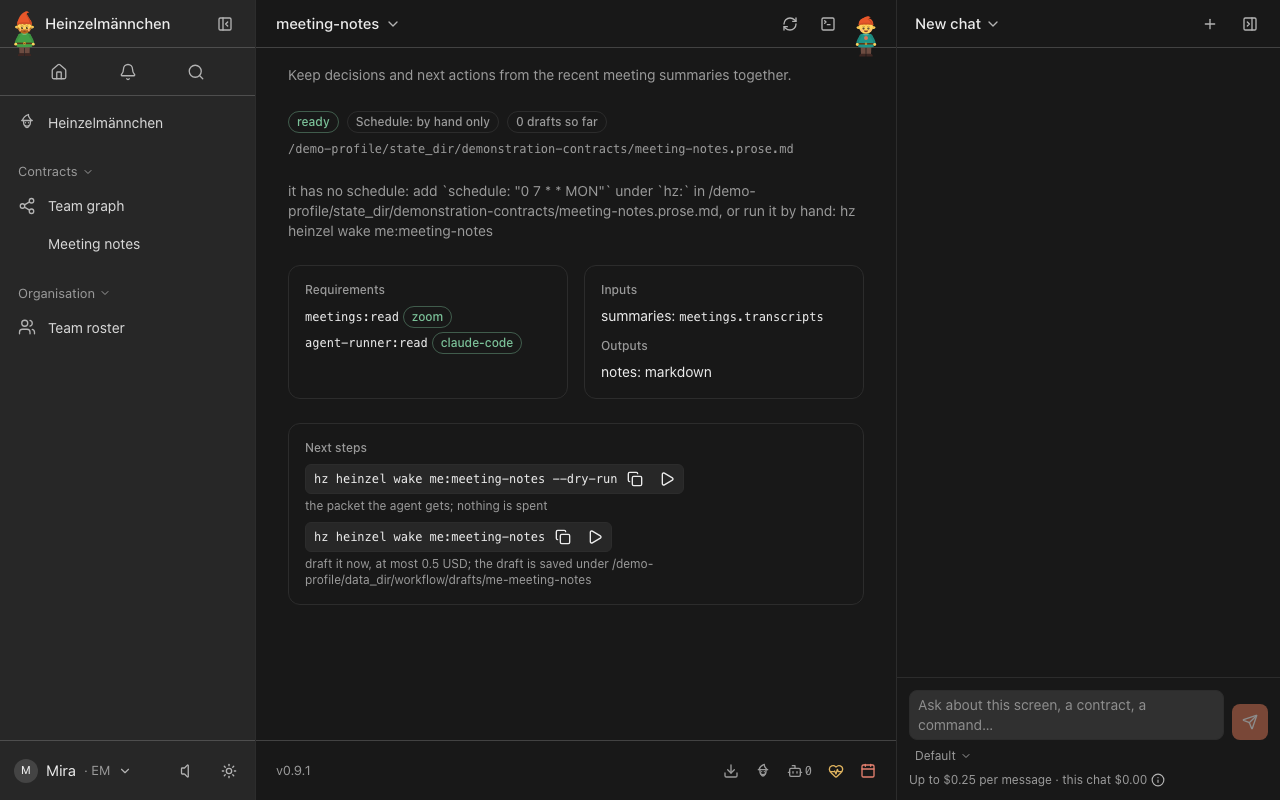
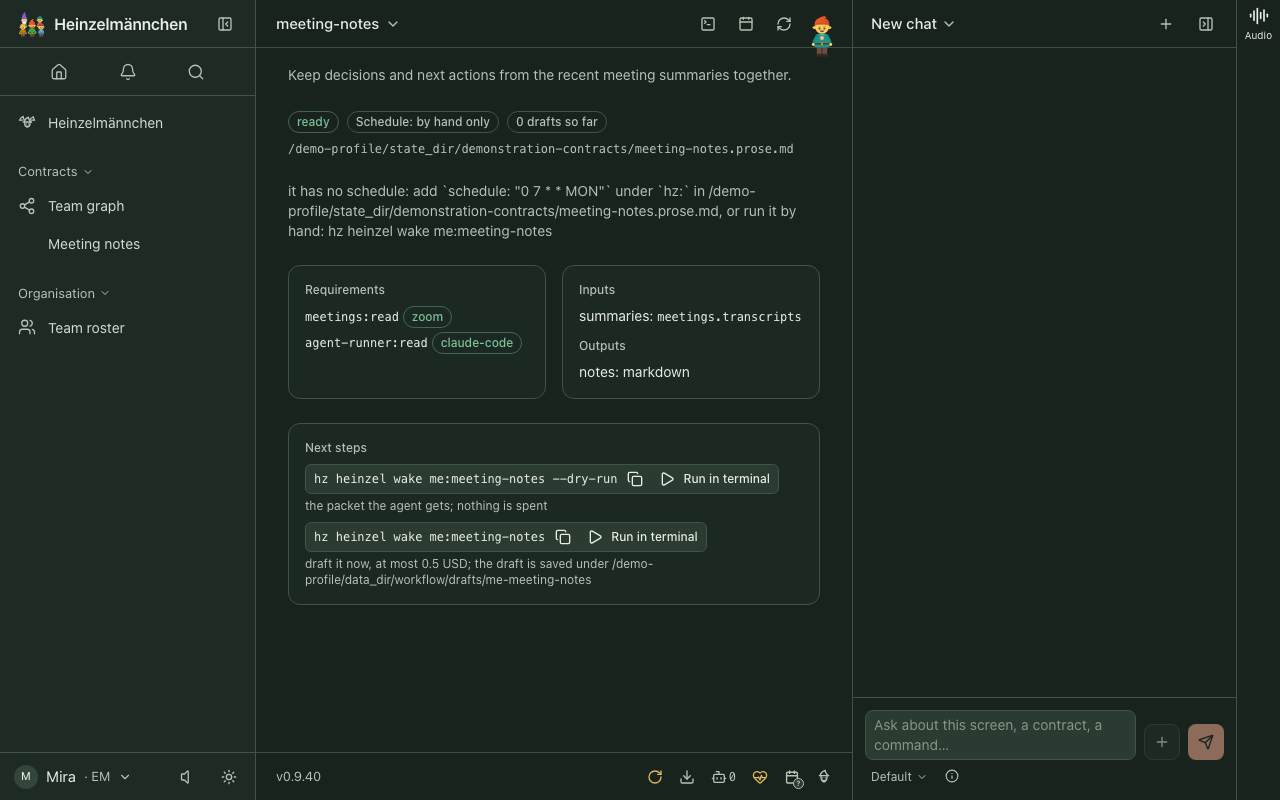
fix(zoom): relock against Core 0.9.40 and release 0.9.3 (#95)
Core 0.9.40 adds uv to its runtime dependencies, which the 0.9.1-era
lock lacks. Relock against the published 0.9.40 wheel, bump to 0.9.3
with a changelog line, and recapture the gallery (privacy review
approved all five assets).

diff --git a/plugins/heinzel-zoom/docs/assets/screenshots/index.html b/plugins/heinzel-zoom/docs/assets/screenshots/index.html
@@ -1,1 +1,1 @@
-<!doctype html><html lang="en"><meta charset="utf-8"><meta name="viewport" content="width=device-width"><title>heinzel-zoom screenshots</title><style>body{font:16px/1.6 system-ui;margin:2rem;background:#faf8f3;color:#263b32}main{display:grid;grid-template-columns:repeat(auto-fit,minmax(min(100%,420px),1fr));gap:1rem}figure{margin:0;padding:1rem;background:white;border:1px solid #d8ddd3;border-radius:12px}img{width:100%;height:auto}figcaption{margin-top:.75rem}a:focus-visible{outline:3px solid #a64028}</style><h1>heinzel-zoom</h1><p>Isolated demonstration profile · Core 0.9.1 · Review these captures before committing. Click an image to inspect it at full size.</p><main><figure><a href="workflow-list.png"><img src="workflow-list.png" alt="Demo data: the fictional Meeting notes workflow declares a need for meeting summaries."></a><figcaption>UI · Demo data: the fictional Meeting notes workflow declares a need for meeting summaries.</figcaption></figure><figure><a href="workflow-context.png"><img src="workflow-context.png" alt="Demo data: the fictional Meeting notes contract declares summary input and Markdown output; no report has been generated."></a><figcaption>UI · Demo data: the fictional Meeting notes contract declares summary input and Markdown output; no report has been generated.</figcaption></figure><figure><a href="summary-cli.png"><img src="summary-cli.png" alt="Demo data: the fixture requester shows Weekly sync&#x27;s parsed recap, next steps and source link."></a><figcaption>CLI · Demo data: the fixture requester shows Weekly sync&#x27;s parsed recap, next steps and source link.</figcaption></figure><figure><a href="launch-cli.png"><img src="launch-cli.png" alt="Demo data: the fixture requester shows Launch review&#x27;s rollout decision and named next steps."></a><figcaption>CLI · Demo data: the fixture requester shows Launch review&#x27;s rollout decision and named next steps.</figcaption></figure><figure><a href="meeting-list-json.png"><img src="meeting-list-json.png" alt="Demo data: fictional October meetings as JSON, with meeting metadata rather than verbatim transcripts."></a><figcaption>CLI · Demo data: fictional October meetings as JSON, with meeting metadata rather than verbatim transcripts.</figcaption></figure></main></html>
+<!doctype html><html lang="en"><meta charset="utf-8"><meta name="viewport" content="width=device-width"><title>heinzel-zoom screenshots</title><style>body{font:16px/1.6 system-ui;margin:2rem;background:#faf8f3;color:#263b32}main{display:grid;grid-template-columns:repeat(auto-fit,minmax(min(100%,420px),1fr));gap:1rem}figure{margin:0;padding:1rem;background:white;border:1px solid #d8ddd3;border-radius:12px}img{width:100%;height:auto}figcaption{margin-top:.75rem}a:focus-visible{outline:3px solid #a64028}</style><h1>heinzel-zoom</h1><p>Isolated demonstration profile · Core 0.9.40 · Review these captures before committing. Click an image to inspect it at full size.</p><main><figure><a href="workflow-list.png"><img src="workflow-list.png" alt="Demo data: the fictional Meeting notes workflow declares a need for meeting summaries."></a><figcaption>UI · Demo data: the fictional Meeting notes workflow declares a need for meeting summaries.</figcaption></figure><figure><a href="workflow-context.png"><img src="workflow-context.png" alt="Demo data: the fictional Meeting notes contract declares summary input and Markdown output; no report has been generated."></a><figcaption>UI · Demo data: the fictional Meeting notes contract declares summary input and Markdown output; no report has been generated.</figcaption></figure><figure><a href="summary-cli.png"><img src="summary-cli.png" alt="Demo data: the fixture requester shows Weekly sync&#x27;s parsed recap, next steps and source link."></a><figcaption>CLI · Demo data: the fixture requester shows Weekly sync&#x27;s parsed recap, next steps and source link.</figcaption></figure><figure><a href="launch-cli.png"><img src="launch-cli.png" alt="Demo data: the fixture requester shows Launch review&#x27;s rollout decision and named next steps."></a><figcaption>CLI · Demo data: the fixture requester shows Launch review&#x27;s rollout decision and named next steps.</figcaption></figure><figure><a href="meeting-list-json.png"><img src="meeting-list-json.png" alt="Demo data: fictional October meetings as JSON, with meeting metadata rather than verbatim transcripts."></a><figcaption>CLI · Demo data: fictional October meetings as JSON, with meeting metadata rather than verbatim transcripts.</figcaption></figure></main></html>

diff --git a/plugins/heinzel-zoom/docs/SCREENSHOT_STORY.md b/plugins/heinzel-zoom/docs/SCREENSHOT_STORY.md
@@ -1,42 +1,42 @@
 ## Audience
 
-A Heinzelmännchen user deciding whether Zoom meeting decisions can feed their workflows without granting this plugin Zoom API credentials.
+People deciding whether Zoom meeting summaries can feed their Heinzelmännchen workflows without granting a Zoom API credential.
 
 ## Outcome
 
-Show a fictional workflow declaring its need for meeting summaries, then show the actual adapter extracting useful decisions from two fictional summary emails. The summaries are AI-generated meeting summaries, not verbatim transcripts. The plugin reads them through a bound mail adapter; enabling email summaries in Zoom and binding mail are prerequisites (`README.md`, `src/heinzel_zoom/__init__.py`).
+Show how a workflow can request meeting context, then show actual parsed decisions and next steps from two fictional emails. The result is a summary, not a verbatim transcript. Zoom must email the summaries, and a mail adapter must be bound; the plugin reads through that adapter (`README.md`, `src/heinzel_zoom/_adapter.py: Zoom`).
 
 ## Scenes
 
-1. **Workflow overview — light.** The Core contracts view shows the fictional Meeting notes workflow in context. Its declaration requires `meetings:read` and defines a summary input and Markdown output. This is a declared workflow, not a generated report (`docs/screenshot_fixture.py`, `CONTRACT`).
-2. **Workflow detail — dark.** Open the same fictional workflow to see its input, intended output and completion criteria. This is a meaningful detail state of the same Core feature; do not imply that it has executed. The existing plan names `/contracts/meeting-notes`; confirm that the route and heading actually render during capture (`docs/screenshots.toml`, `docs/screenshot_fixture.py`).
-3. **Weekly sync — CLI.** The fixture-only `showcase one sync` requester displays the parsed recap, next steps and source link. It calls the installed Zoom adapter, not a production Zoom CLI command (`docs/screenshot_fixture.py`, `one` and `summary_body`).
-4. **Launch review — CLI.** Run the same requester with `launch` to show the second meeting's distinct rollout decision and owners (`docs/screenshot_fixture.py`, `CONTENTS` and `one`).
-5. **Meeting list — CLI.** Show the fictional October results as JSON: meeting metadata, rather than verbatim transcripts. The fixture's `ended` operation uses the adapter's `meetings.ended` (`docs/screenshot_fixture.py`, `ended`; `src/heinzel_zoom/_adapter.py`).
+1. **Workflow list, light:** the fictional Meeting notes contract appears among Core workflows. It demonstrates a declared need for meeting summaries, not a completed report.
+2. **Workflow context, dark:** the same contract's detail shows its summary input and Markdown output. This is a meaningfully different state of the workflow, with no generated report implied.
+3. **Weekly sync:** the fixture requester's native CLI result shows the parsed recap, named next steps and source link.
+4. **Launch review:** the same operation with a different meeting ID shows a different rollout decision and next steps.
+5. **Meeting list JSON:** the fixture requester's windowed result shows fictional meeting metadata, distinguishing the list from the summary sections.
+
+The two UI scenes use applied light and dark appearances. Capture them as genuine Core views, not recreated HTML or terminal output. The existing detail route is retained from `docs/screenshots.toml`; its availability and rendered content must be confirmed during capture because Core's routing implementation is not among the provided sources.
 
 ## Fictional fixtures
 
-Use the existing `docs/screenshot_fixture.py` only during explicit capture. It creates an isolated demonstration contract, binds its fictional `inbox` mail adapter and the installed `zoom` meetings adapter, and supplies Weekly sync, Launch review and an unrelated newsletter. The names, decisions, meeting ID and example addresses are demonstration data. The requester and contract are documentation-only additions, not shipped Zoom features. No report is generated by declaring the contract.
+`docs/screenshot_fixture.py` declares the local `inbox` mail adapter, `showcase` requester and Meeting notes contract. Its two fictional summaries name Mira, Jonas and Priya Example; a newsletter exercises filtering. `showcase.one` calls the real meetings adapter for `sync` or `launch`, while `showcase.ended` lists the fixed October window. The contract is a declaration only. Bootstrap runs only during explicit capture, in an isolated profile with no connected accounts.
 
 ## Source-bound UI surface inventory
 
-- **Plugin entrypoint and adapter:** `pyproject.toml` declares `heinzel.modules.zoom = "heinzel_zoom"`; `src/heinzel_zoom/__init__.py` registers settings, service and the read-only `meetings` provider. `src/heinzel_zoom/_module.py` requires `mail:read`. The adapter methods `ended`, `transcripts` and `transcript` are capability methods, not declared plugin pages (`src/heinzel_zoom/_adapter.py`).
-- **Operations and Core contributions:** `src/heinzel_zoom/__init__.py` declares the `info` operation, system-info contribution, offline health checks and an explicitly invoked live health check. These may appear in Core-rendered operation, information or health surfaces; the supplied sources do not establish their actual web routes or controls. No channel, approval, setup, footer, navigation, Page or View declaration is present in the supplied plugin entrypoint. Absence of a plugin Page or View does not establish absence of a Core-rendered feature UI.
-- **Core feature UI:** the existing plan identifies `/contracts` and `/contracts/meeting-notes` for the fixture's contract (`docs/screenshots.toml`; `docs/screenshot_fixture.py`, `CONTRACT`). These are two useful states of a Core workflow feature, not Zoom-owned screens. The supplied Core implementation is absent, so the detail route, graph presentation and actual rendered fields remain capture-time evidence to verify; do not claim the overview is a graph unless observed.
-- **Terminal output:** `showcase one` and `showcase ended` are fixture-only operations with Rich renderers (`docs/screenshot_fixture.py`). Their CLI output is appropriate as CLI evidence. The existing plan labels three in-app terminal captures as `surface = "ui"`; those are terminal results, not feature UI, so this plan retains their useful cases as CLI scenes instead. The supplied sources do not prove all meeting behavior is terminal-only.
-- **External provider UI:** Zoom's settings portal is an external prerequisite described in `README.md`, not a plugin or Core screen. Do not stage or invent it. `hz system connector test zoom` lists recent matching summary emails through the mail adapter when invoked; it is not a Zoom API connection test (`src/heinzel_zoom/_service.py`, `live`).
+- `pyproject.toml` declares one `heinzel.modules` entry point, `zoom = "heinzel_zoom"`. `src/heinzel_zoom/__init__.py` registers settings, service, the read-only `meetings` provider, the `info` operation, system info, offline health and live connector health. `src/heinzel_zoom/_module.py` declares its `mail:read` requirement. No plugin Page, View, navigation, channel, approval, setup or footer contribution is declared in these provided files; that absence alone does not rule out Core-rendered UI.
+- Core workflow list and contract detail are feature UI using the fixture's actual contract declaration (`docs/screenshot_fixture.py: CONTRACT`; `docs/screenshots.toml: workflow-list, workflow-context`). The provided source does not establish that the detail route currently resolves, so capture must verify it. These views demonstrate workflow configuration, not a parsed meeting or generated report.
+- The `info` operation and `system_info` contribution expose plugin, version, modules, source and query (`src/heinzel_zoom/__init__.py: info, system_info`; `src/heinzel_zoom/_service.py: ZoomService.about`; `src/heinzel_zoom/_models.py: ZoomAbout`). Health contributes summary source, mail and meetings binding checks; live health lists recent matching messages on demand (`__init__.py: health, live`; `_service.py: checks, live`). Core may render these contributions in generic UI; the provided files do not establish its routes or presentation. Do not claim they are terminal-only or invent a screen.
+- The fixture's `showcase.one`, `ended` and `said` are operations, with custom Rich renderers for the first two (`docs/screenshot_fixture.py`). Their CLI output is useful and genuine, but possible Core rendering of operations is unresolved. The plan does not present their terminal output as feature UI.
+- Zoom's settings portal is external provider UI (`README.md: Set up`; `src/heinzel_zoom/_models.py: SUMMARY_SETTING`), not a plugin or Core screen. The plugin's query setting is a Core-facing settings contribution (`__init__.py: module.settings`; `_models.py: ZoomSettings`); no route is established here. The provided source declares no plugin-owned navigation route.
+- The README calls the returned object a transcript while explaining that it contains summary sections, not a verbatim record; captions must preserve that distinction. The fixture contract's goal describes a review, but its own text explicitly says no report has been generated.
 
 ## Privacy pitfalls
 
-Capture only the isolated fictional mailbox and contract. Summary text can contain sensitive decisions and names even though the parser removes email addresses, excludes footer content and strips query strings and fragments from Zoom links (`src/heinzel_zoom/_summary.py`, `src/heinzel_zoom/_text.py`). Inspect links, paths, hostnames, account details, terminal history and surrounding Core chrome as well as the main content.
-
-Normal presentation fictionalization is explicitly limited to replacing verified owning-interpreter paths with `/demo-profile/.venv`, and replacing only the verified whole hostname detail in the genuine Doctor row with `demo-host`. These mappings change no SDK health status or remaining detail and establish no privacy acceptance. Unknown identities still fail; an independent reviewer must inspect every image and transcript.
+Use only the isolated fictional mailbox and contract. Parser protections include address replacement, removal of addresses from names, and stripping query strings and fragments from Zoom links (`src/heinzel_zoom/_summary.py`, `src/heinzel_zoom/_text.py`); they do not establish that screenshots or transcripts are private. Normal presentation fictionalization maps verified owning-interpreter paths to `/demo-profile/.venv`, and only the verified whole hostname detail in the genuine Doctor row to `demo-host`. These mappings change no SDK health status or remaining detail and establish no privacy acceptance. Unknown identities still fail. Independent review must inspect every image and transcript for identities, paths, tokens and other sensitive content before publication.
 
 ## Acceptance criteria
 
-- Capture the two genuine Core workflow states with the specified applied light and dark appearances, plus the three useful CLI results. Verify that each route and visible state actually exists; stop and report unresolved evidence instead of forging HTML or substituting terminal output for feature UI.
-- Show both `sync` and `launch` parameter cases, with their distinct fixture decisions, and the October JSON list. Do not capture duplicate images or rely on caption-only differences.
-- Every caption identifies demo data. The contract images make clear that a workflow is declared, not executed; the CLI images identify the documentation-only requester. Do not present summaries as verbatim transcripts.
-- Confirm the unrelated newsletter is excluded and the captured meeting data comes from the fixture through the real installed adapter. Treat these as capture-time checks, not results already observed.
-- Independently review every image and transcript for privacy, including the exact permitted presentation mappings. Unknown identities fail review.
-- The TOML below is structurally checked against the supplied scene rules by inspection; it has not been parsed or capture-tested because code execution was prohibited.
+- Capture both genuine workflow states with their stated applied appearances, and verify the detail route and meaningful content. Stop and resolve any missing route or surface instead of fabricating it.
+- Show the two different `showcase.one` parameter cases and the windowed list as genuine completed CLI results. Confirm fictional decisions, next steps and metadata match the fixture; do not describe them as verbatim transcripts.
+- Reject duplicate captures, caption-only changes, terminal output presented as feature UI, and forged HTML. Every caption identifies demo data; no scene implies a report was generated or a real mailbox was consulted.
+- Independently inspect every image and transcript, apply only the verified presentation mappings above, and fail on unknown identities. Verify health status and all remaining Doctor detail are unchanged.
+- The TOML below preserves the existing five-scene plan. Its syntax and declared fields have been checked by inspection only; capture, route resolution, appearance application and privacy acceptance remain unverified.

diff --git a/plugins/heinzel-zoom/docs/assets/screenshots/source-story.md b/plugins/heinzel-zoom/docs/assets/screenshots/source-story.md
@@ -1,42 +1,42 @@
 ## Audience
 
-A Heinzelmännchen user deciding whether Zoom meeting decisions can feed their workflows without granting this plugin Zoom API credentials.
+People deciding whether Zoom meeting summaries can feed their Heinzelmännchen workflows without granting a Zoom API credential.
 
 ## Outcome
 
-Show a fictional workflow declaring its need for meeting summaries, then show the actual adapter extracting useful decisions from two fictional summary emails. The summaries are AI-generated meeting summaries, not verbatim transcripts. The plugin reads them through a bound mail adapter; enabling email summaries in Zoom and binding mail are prerequisites (`README.md`, `src/heinzel_zoom/__init__.py`).
+Show how a workflow can request meeting context, then show actual parsed decisions and next steps from two fictional emails. The result is a summary, not a verbatim transcript. Zoom must email the summaries, and a mail adapter must be bound; the plugin reads through that adapter (`README.md`, `src/heinzel_zoom/_adapter.py: Zoom`).
 
 ## Scenes
 
-1. **Workflow overview — light.** The Core contracts view shows the fictional Meeting notes workflow in context. Its declaration requires `meetings:read` and defines a summary input and Markdown output. This is a declared workflow, not a generated report (`docs/screenshot_fixture.py`, `CONTRACT`).
-2. **Workflow detail — dark.** Open the same fictional workflow to see its input, intended output and completion criteria. This is a meaningful detail state of the same Core feature; do not imply that it has executed. The existing plan names `/contracts/meeting-notes`; confirm that the route and heading actually render during capture (`docs/screenshots.toml`, `docs/screenshot_fixture.py`).
-3. **Weekly sync — CLI.** The fixture-only `showcase one sync` requester displays the parsed recap, next steps and source link. It calls the installed Zoom adapter, not a production Zoom CLI command (`docs/screenshot_fixture.py`, `one` and `summary_body`).
-4. **Launch review — CLI.** Run the same requester with `launch` to show the second meeting's distinct rollout decision and owners (`docs/screenshot_fixture.py`, `CONTENTS` and `one`).
-5. **Meeting list — CLI.** Show the fictional October results as JSON: meeting metadata, rather than verbatim transcripts. The fixture's `ended` operation uses the adapter's `meetings.ended` (`docs/screenshot_fixture.py`, `ended`; `src/heinzel_zoom/_adapter.py`).
+1. **Workflow list, light:** the fictional Meeting notes contract appears among Core workflows. It demonstrates a declared need for meeting summaries, not a completed report.
+2. **Workflow context, dark:** the same contract's detail shows its summary input and Markdown output. This is a meaningfully different state of the workflow, with no generated report implied.
+3. **Weekly sync:** the fixture requester's native CLI result shows the parsed recap, named next steps and source link.
+4. **Launch review:** the same operation with a different meeting ID shows a different rollout decision and next steps.
+5. **Meeting list JSON:** the fixture requester's windowed result shows fictional meeting metadata, distinguishing the list from the summary sections.
+
+The two UI scenes use applied light and dark appearances. Capture them as genuine Core views, not recreated HTML or terminal output. The existing detail route is retained from `docs/screenshots.toml`; its availability and rendered content must be confirmed during capture because Core's routing implementation is not among the provided sources.
 
 ## Fictional fixtures
 
-Use the existing `docs/screenshot_fixture.py` only during explicit capture. It creates an isolated demonstration contract, binds its fictional `inbox` mail adapter and the installed `zoom` meetings adapter, and supplies Weekly sync, Launch review and an unrelated newsletter. The names, decisions, meeting ID and example addresses are demonstration data. The requester and contract are documentation-only additions, not shipped Zoom features. No report is generated by declaring the contract.
+`docs/screenshot_fixture.py` declares the local `inbox` mail adapter, `showcase` requester and Meeting notes contract. Its two fictional summaries name Mira, Jonas and Priya Example; a newsletter exercises filtering. `showcase.one` calls the real meetings adapter for `sync` or `launch`, while `showcase.ended` lists the fixed October window. The contract is a declaration only. Bootstrap runs only during explicit capture, in an isolated profile with no connected accounts.
 
 ## Source-bound UI surface inventory
 
-- **Plugin entrypoint and adapter:** `pyproject.toml` declares `heinzel.modules.zoom = "heinzel_zoom"`; `src/heinzel_zoom/__init__.py` registers settings, service and the read-only `meetings` provider. `src/heinzel_zoom/_module.py` requires `mail:read`. The adapter methods `ended`, `transcripts` and `transcript` are capability methods, not declared plugin pages (`src/heinzel_zoom/_adapter.py`).
-- **Operations and Core contributions:** `src/heinzel_zoom/__init__.py` declares the `info` operation, system-info contribution, offline health checks and an explicitly invoked live health check. These may appear in Core-rendered operation, information or health surfaces; the supplied sources do not establish their actual web routes or controls. No channel, approval, setup, footer, navigation, Page or View declaration is present in the supplied plugin entrypoint. Absence of a plugin Page or View does not establish absence of a Core-rendered feature UI.
-- **Core feature UI:** the existing plan identifies `/contracts` and `/contracts/meeting-notes` for the fixture's contract (`docs/screenshots.toml`; `docs/screenshot_fixture.py`, `CONTRACT`). These are two useful states of a Core workflow feature, not Zoom-owned screens. The supplied Core implementation is absent, so the detail route, graph presentation and actual rendered fields remain capture-time evidence to verify; do not claim the overview is a graph unless observed.
-- **Terminal output:** `showcase one` and `showcase ended` are fixture-only operations with Rich renderers (`docs/screenshot_fixture.py`). Their CLI output is appropriate as CLI evidence. The existing plan labels three in-app terminal captures as `surface = "ui"`; those are terminal results, not feature UI, so this plan retains their useful cases as CLI scenes instead. The supplied sources do not prove all meeting behavior is terminal-only.
-- **External provider UI:** Zoom's settings portal is an external prerequisite described in `README.md`, not a plugin or Core screen. Do not stage or invent it. `hz system connector test zoom` lists recent matching summary emails through the mail adapter when invoked; it is not a Zoom API connection test (`src/heinzel_zoom/_service.py`, `live`).
+- `pyproject.toml` declares one `heinzel.modules` entry point, `zoom = "heinzel_zoom"`. `src/heinzel_zoom/__init__.py` registers settings, service, the read-only `meetings` provider, the `info` operation, system info, offline health and live connector health. `src/heinzel_zoom/_module.py` declares its `mail:read` requirement. No plugin Page, View, navigation, channel, approval, setup or footer contribution is declared in these provided files; that absence alone does not rule out Core-rendered UI.
+- Core workflow list and contract detail are feature UI using the fixture's actual contract declaration (`docs/screenshot_fixture.py: CONTRACT`; `docs/screenshots.toml: workflow-list, workflow-context`). The provided source does not establish that the detail route currently resolves, so capture must verify it. These views demonstrate workflow configuration, not a parsed meeting or generated report.
+- The `info` operation and `system_info` contribution expose plugin, version, modules, source and query (`src/heinzel_zoom/__init__.py: info, system_info`; `src/heinzel_zoom/_service.py: ZoomService.about`; `src/heinzel_zoom/_models.py: ZoomAbout`). Health contributes summary source, mail and meetings binding checks; live health lists recent matching messages on demand (`__init__.py: health, live`; `_service.py: checks, live`). Core may render these contributions in generic UI; the provided files do not establish its routes or presentation. Do not claim they are terminal-only or invent a screen.
+- The fixture's `showcase.one`, `ended` and `said` are operations, with custom Rich renderers for the first two (`docs/screenshot_fixture.py`). Their CLI output is useful and genuine, but possible Core rendering of operations is unresolved. The plan does not present their terminal output as feature UI.
+- Zoom's settings portal is external provider UI (`README.md: Set up`; `src/heinzel_zoom/_models.py: SUMMARY_SETTING`), not a plugin or Core screen. The plugin's query setting is a Core-facing settings contribution (`__init__.py: module.settings`; `_models.py: ZoomSettings`); no route is established here. The provided source declares no plugin-owned navigation route.
+- The README calls the returned object a transcript while explaining that it contains summary sections, not a verbatim record; captions must preserve that distinction. The fixture contract's goal describes a review, but its own text explicitly says no report has been generated.
 
 ## Privacy pitfalls
 
-Capture only the isolated fictional mailbox and contract. Summary text can contain sensitive decisions and names even though the parser removes email addresses, excludes footer content and strips query strings and fragments from Zoom links (`src/heinzel_zoom/_summary.py`, `src/heinzel_zoom/_text.py`). Inspect links, paths, hostnames, account details, terminal history and surrounding Core chrome as well as the main content.
-
-Normal presentation fictionalization is explicitly limited to replacing verified owning-interpreter paths with `/demo-profile/.venv`, and replacing only the verified whole hostname detail in the genuine Doctor row with `demo-host`. These mappings change no SDK health status or remaining detail and establish no privacy acceptance. Unknown identities still fail; an independent reviewer must inspect every image and transcript.
+Use only the isolated fictional mailbox and contract. Parser protections include address replacement, removal of addresses from names, and stripping query strings and fragments from Zoom links (`src/heinzel_zoom/_summary.py`, `src/heinzel_zoom/_text.py`); they do not establish that screenshots or transcripts are private. Normal presentation fictionalization maps verified owning-interpreter paths to `/demo-profile/.venv`, and only the verified whole hostname detail in the genuine Doctor row to `demo-host`. These mappings change no SDK health status or remaining detail and establish no privacy acceptance. Unknown identities still fail. Independent review must inspect every image and transcript for identities, paths, tokens and other sensitive content before publication.
 
 ## Acceptance criteria
 
-- Capture the two genuine Core workflow states with the specified applied light and dark appearances, plus the three useful CLI results. Verify that each route and visible state actually exists; stop and report unresolved evidence instead of forging HTML or substituting terminal output for feature UI.
-- Show both `sync` and `launch` parameter cases, with their distinct fixture decisions, and the October JSON list. Do not capture duplicate images or rely on caption-only differences.
-- Every caption identifies demo data. The contract images make clear that a workflow is declared, not executed; the CLI images identify the documentation-only requester. Do not present summaries as verbatim transcripts.
-- Confirm the unrelated newsletter is excluded and the captured meeting data comes from the fixture through the real installed adapter. Treat these as capture-time checks, not results already observed.
-- Independently review every image and transcript for privacy, including the exact permitted presentation mappings. Unknown identities fail review.
-- The TOML below is structurally checked against the supplied scene rules by inspection; it has not been parsed or capture-tested because code execution was prohibited.
+- Capture both genuine workflow states with their stated applied appearances, and verify the detail route and meaningful content. Stop and resolve any missing route or surface instead of fabricating it.
+- Show the two different `showcase.one` parameter cases and the windowed list as genuine completed CLI results. Confirm fictional decisions, next steps and metadata match the fixture; do not describe them as verbatim transcripts.
+- Reject duplicate captures, caption-only changes, terminal output presented as feature UI, and forged HTML. Every caption identifies demo data; no scene implies a report was generated or a real mailbox was consulted.
+- Independently inspect every image and transcript, apply only the verified presentation mappings above, and fail on unknown identities. Verify health status and all remaining Doctor detail are unchanged.
+- The TOML below preserves the existing five-scene plan. Its syntax and declared fields have been checked by inspection only; capture, route resolution, appearance application and privacy acceptance remain unverified.

diff --git a/plugins/heinzel-zoom/CHANGELOG.md b/plugins/heinzel-zoom/CHANGELOG.md
@@ -1,5 +1,9 @@
 # Changelog
 
+## 0.9.3
+
+Relock against Core 0.9.40, which adds uv to the Core runtime dependencies.
+
 ## 0.9.2
 
 Relock opentelemetry-api to 1.45.2 (CVE-2026-126360).
